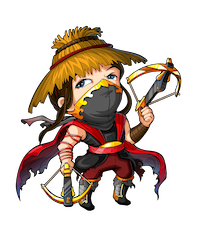
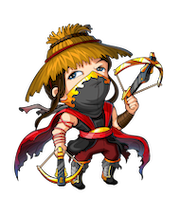
weapon movement

diff --git a/models.py b/models.py
@@ -1,5 +1,6 @@
 import arcade.key
 import math
+import time
 
 class Warrior:
     def __init__(self, world, x, y):
@@ -19,18 +20,18 @@ class Monster:
     def update(self, delta):
         pass
 
-class War_Wea:
+class War_Wea1:
 
-    STARTING_VELOCITY = 10
-    THROWING_VELOCITY = 10
-    GRAVITY = 1
+    VELOCITY_X = 10
+    VELOCITY_Y = 0
 
     def __init__(self, world, x, y):
         self.world = world
         self.x = x
         self.y = y
-        self.vy = War_Wea.STARTING_VELOCITY
-        self.vx = War_Wea.STARTING_VELOCITY
+        self.vx = War_Wea1.VELOCITY_X
+        self.vy = War_Wea1.VELOCITY_Y
+        self.h = 0
 
     def throw(self, war, mon):
         start_x = war.x
@@ -40,26 +41,86 @@ class War_Wea:
         x_diff = dest_x - start_x
         y_diff = dest_y - start_y
         angle = math.atan2(y_diff, x_diff)
-        self.vx = math.cos(angle) * War_Wea.THROWING_VELOCITY
-        self.vy = math.sin(angle) * War_Wea.THROWING_VELOCITY
+        self.vy = (World.END_TIME - World.START_TIME)*8
+        self.h = ((self.vy**2)*(math.sin(2*angle)))
 
     def update(self, delta):
         self.x += self.vx
         self.y += self.vy
-        if self.y == 550:
-            self.y -= self.vy
+        if self.y >= 580:
+            self.vy = -self.vy
+
+class War_Wea2:
+    
+    STARTING_VELOCITY = 10
+    THROWING_VELOCITY = 10
+
+    def __init__(self, world, x, y):
+        self.world = world
+        self.x = x
+        self.y = y
+        self.h = 0
+        self.vy = War_Wea2.STARTING_VELOCITY
+        self.vx = War_Wea2.STARTING_VELOCITY
+
+    def throw(self, war, mon):
+        start_x = war.x
+        start_y = war.y
+        dest_x = mon.x
+        dest_y = mon.y
+        x_diff = dest_x - start_x
+        y_diff = dest_y - start_y
+        angle = math.atan2(y_diff, x_diff)
+        self.vx = math.cos(angle) * War_Wea2.THROWING_VELOCITY
+        self.vy = math.sin(angle) * War_Wea2.THROWING_VELOCITY
+        self.h = math.ceil(((self.vy**2)(math.sin(angle)**2))/20)
+
+    def update(self, delta):
+        self.x += self.vx
+        self.y -= self.vy
 
 class World:
+
+    STATE_FROZEN = 1
+    STATE_STARTED = 2
+    START_TIME = 0
+    END_TIME = 0
+
     def __init__(self, width, height):
         self.width = width
         self.height = height
+        self.state = World.STATE_FROZEN
         
-        self.warrior = Warrior(self, 120, 190)
-        self.monster = Monster(self, 870, 270)
-        self.war_wea = War_Wea(self, 120, 200)
+        self.warrior = Warrior(self, 120, 210)
+        self.monster = Monster(self, 850, 230)
+        self.war_wea1 = War_Wea1(self, 120, 200)
+        self.war_wea2 = War_Wea2(self, self.war_wea1.x, self.war_wea1.y)
 
-    def on_key_press(self, key, key_modifiers):
-        self.war_wea.throw(self.war_wea, self.monster)
+    def start(self):
+        self.state = World.STATE_STARTED
+ 
+    def freeze(self):
+        self.state = World.STATE_FROZEN
+
+    def is_started(self):
+        return self.state == World.STATE_STARTED
+
+    #def on_mouse_motion(self, x, y, dx, dy):
+        #self.war_wea.x = x
+        #self.war_wea.y = y
+
+    def on_mouse_press(self, x, y, button, modifiers):
+        if button == arcade.MOUSE_BUTTON_LEFT:
+            World.START_TIME = time.time()
+
+    def on_mouse_release(self, x, y, button, modifiers):
+        if button == arcade.MOUSE_BUTTON_LEFT:
+            World.END_TIME = time.time()
+            self.war_wea1.throw(self.warrior, self.monster)
+            print(World.END_TIME - World.START_TIME)
+            print(self.war_wea1.vy)
+            print(self.war_wea1.h)
 
     def update(self, delta):
-        self.war_wea.update(delta)
+        if self.state == World.STATE_STARTED:
+            self.war_wea1.update(delta)

diff --git a/game.py b/game.py
@@ -26,13 +26,22 @@ class GameWindow(arcade.Window):
 
         self.warrior_sprite = ModelSprite('images/warrior.png', 
                                         model=self.world.warrior)
-        self.monster_sprite = ModelSprite('images/mon1.png',
+        self.monster_sprite = ModelSprite('images/mon.png',
                                         model=self.world.monster)
-        self.war_wea_sprite = ModelSprite('images/war_wea.png',
-                                        model=self.world.war_wea)
+        self.war_wea1_sprite = ModelSprite('images/war_wea1.png',
+                                        model=self.world.war_wea1)
+        self.war_wea2_sprite = ModelSprite('images/war_wea2.png',
+                                        model=self.world.war_wea2)
+    #def on_mouse_motion(self, x, y, dx, dy):
+         #self.world.on_mouse_motion(x, y, dx, dy)
 
-    def on_key_press(self, key, key_modifiers):
-         self.world.on_key_press(key, key_modifiers)
+    def on_mouse_press(self, x, y, button, modifiers):
+        self.world.on_mouse_press(x, y, button, modifiers)
+
+    def on_mouse_release(self, x, y, button, modifiers):
+        if not self.world.is_started():
+            self.world.start()
+        self.world.on_mouse_release(x, y, button, modifiers)
 
     def update(self, delta):
         self.world.update(delta)
@@ -43,9 +52,10 @@ class GameWindow(arcade.Window):
         arcade.draw_texture_rectangle(SCREEN_WIDTH // 2, SCREEN_HEIGHT // 2,
                                       SCREEN_WIDTH, SCREEN_HEIGHT, self.background)
 
+        self.war_wea1_sprite.draw()
+        self.war_wea2_sprite.draw()
         self.warrior_sprite.draw()
         self.monster_sprite.draw()
-        self.war_wea_sprite.draw()
 
 def main():
     window = GameWindow(SCREEN_WIDTH, SCREEN_HEIGHT, SCREEN_TITLE)
